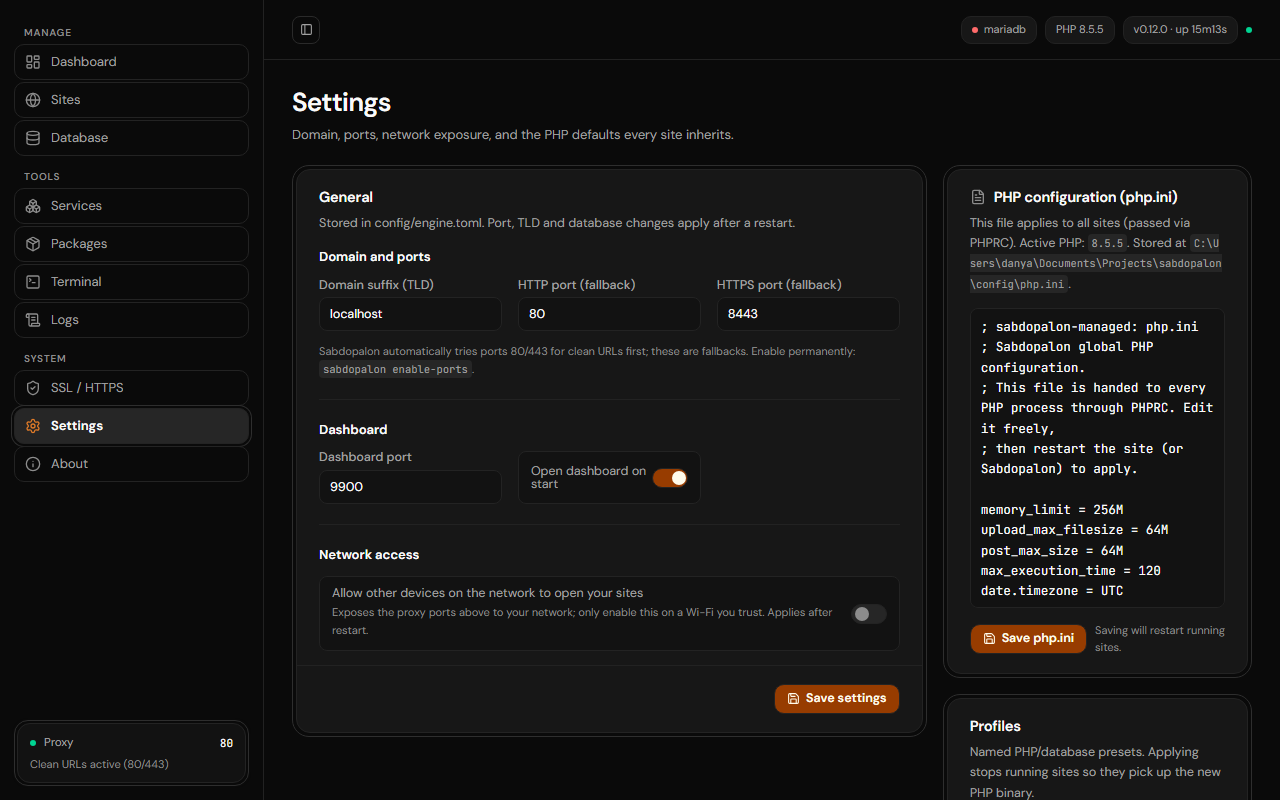
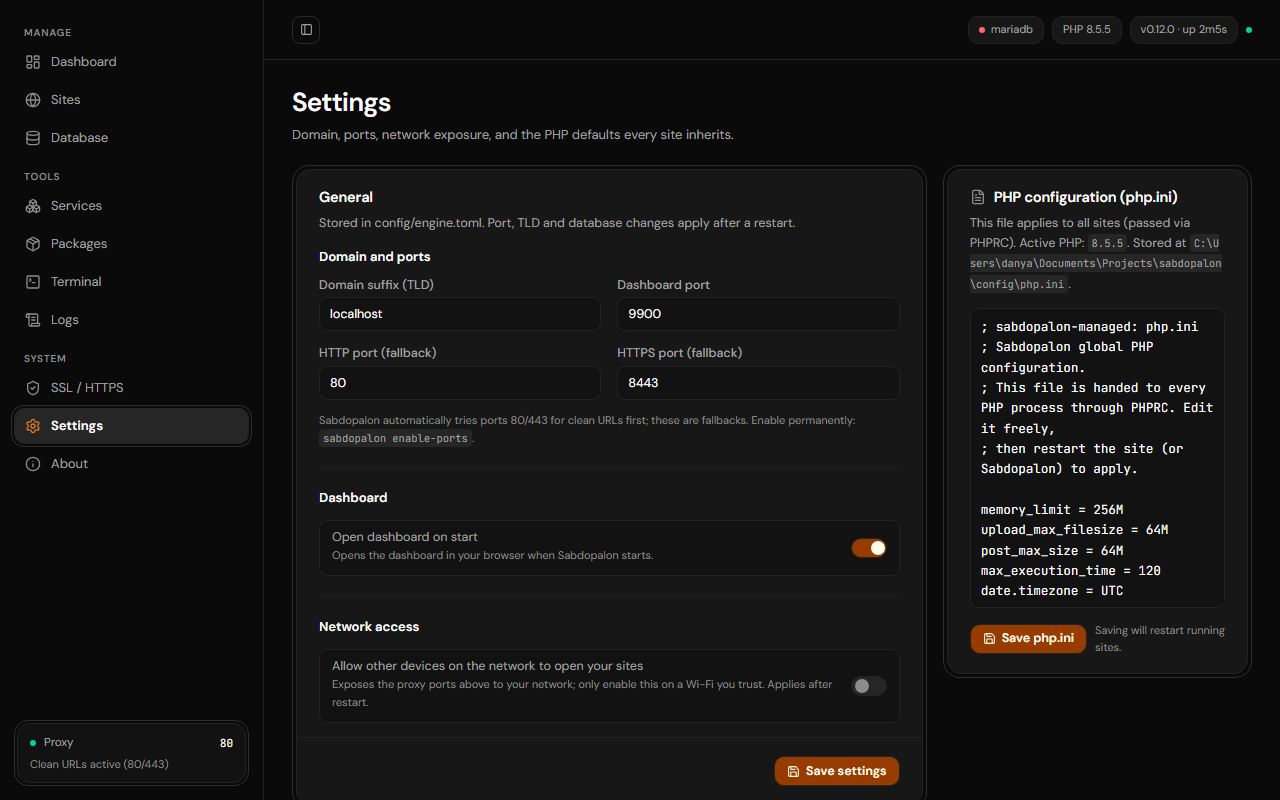
ui(settings): a real bento, and switch rows of the same size
The Settings page was a two-column arrangement with the Profiles table
squeezed into the side column. It is now a bento: General takes two
thirds with PHP configuration beside it, and Profiles runs full width
below, where its table has room to breathe.

The ports became the design's 2x2 grid (TLD and dashboard port on the
first row, the two fallback ports on the second), and "Open dashboard
on start" is now a full-width row with a label, a note and the switch
on the right - the same shape and size as the network-access row
below it, so the two switches read as one kind of control.

Inactive sidebar items lose their border. The design draws one, but a
border around every item makes the list look like a table of buttons;
only the active item needs to be marked, and it keeps its ring.

diff --git a/internal/dashboard/ui/src/pages/settings.tsx b/internal/dashboard/ui/src/pages/settings.tsx
@@ -102,10 +102,19 @@ export default function SettingsPage() {
         <CardContent className="flex flex-col gap-5">
           <section className="flex flex-col gap-3 border-b border-border-soft pb-5 last:border-0 last:pb-0">
             <h3 className="text-[13px] font-semibold text-text-primary">Domain and ports</h3>
-            <div className="grid grid-cols-1 gap-4 @xl/main:grid-cols-3">
+            <div className="grid grid-cols-1 gap-4 @xl/main:grid-cols-2">
               <div className="flex flex-col gap-1.5">
                 <Label htmlFor="tld">Domain suffix (TLD)</Label>
                 <Input id="tld" value={cfg.tld ?? ""} onChange={(e) => set("tld", e.target.value)} />
+              </div>
+              <div className="flex flex-col gap-1.5">
+                <Label htmlFor="dashport">Dashboard port</Label>
+                <Input
+                  id="dashport"
+                  type="number"
+                  value={cfg.dashboard_port ?? ""}
+                  onChange={(e) => set("dashboard_port", Number(e.target.value))}
+                />
               </div>
               <div className="flex flex-col gap-1.5">
                 <Label htmlFor="http">HTTP port (fallback)</Label>
@@ -134,26 +143,20 @@ export default function SettingsPage() {
 
           <section className="flex flex-col gap-3 border-b border-border-soft pb-5 last:border-0 last:pb-0">
             <h3 className="text-[13px] font-semibold text-text-primary">Dashboard</h3>
-            <div className="grid grid-cols-1 gap-4 @xl/main:grid-cols-3">
-              <div className="flex flex-col gap-1.5">
-                <Label htmlFor="dashport">Dashboard port</Label>
-                <Input
-                  id="dashport"
-                  type="number"
-                  value={cfg.dashboard_port ?? ""}
-                  onChange={(e) => set("dashboard_port", Number(e.target.value))}
-                />
-              </div>
-              <div className="flex flex-row items-center justify-between rounded-md border border-ring-inner bg-surface-inset px-3 py-2.5">
+            <div className="flex flex-row items-center justify-between gap-4 rounded-md border border-ring-inner bg-surface-inset px-3 py-2.5">
+              <div className="flex flex-col gap-1">
                 <Label htmlFor="autoopen" className="font-normal">
                   Open dashboard on start
                 </Label>
-                <Switch
-                  id="autoopen"
-                  checked={!!cfg.auto_open}
-                  onCheckedChange={(v) => set("auto_open", v)}
-                />
+                <p className="text-[11px] leading-relaxed text-text-muted">
+                  Opens the dashboard in your browser when Sabdopalon starts.
+                </p>
               </div>
+              <Switch
+                id="autoopen"
+                checked={!!cfg.auto_open}
+                onCheckedChange={(v) => set("auto_open", v)}
+              />
             </div>
           </section>
 
@@ -186,7 +189,6 @@ export default function SettingsPage() {
         </CardFooter>
       </Card>
 
-        <div className="flex min-w-0 flex-col gap-4">
       <Card className="min-w-0">
         <CardHeader>
           <CardTitle className="flex items-center gap-2">
@@ -217,7 +219,8 @@ export default function SettingsPage() {
         </CardHeader>
       </Card>
 
-      <Card>
+
+      <Card className="min-w-0 @4xl/main:col-span-3">
         <CardHeader>
           <CardTitle>Profiles</CardTitle>
           <CardDescription>
@@ -227,43 +230,42 @@ export default function SettingsPage() {
         </CardHeader>
         <CardContent>
           <div className="overflow-hidden rounded-xl border border-ring-inner">
-          <Table>
-            <TableHeader>
-              <TableRow className="hover:bg-transparent">
-                <TableHead>Name</TableHead>
-                <TableHead>PHP</TableHead>
-                <TableHead>DB</TableHead>
-                <TableHead className="w-24 text-right">
-                  <span className="sr-only">Actions</span>
-                </TableHead>
-              </TableRow>
-            </TableHeader>
-            <TableBody>
-              {profiles.map((p) => (
-                <TableRow key={p.Name}>
-                  <TableCell className="font-medium">
-                    {p.Name}
-                    {p.Description && (
-                      <span className="ml-2 text-[10.5px] text-text-muted">{p.Description}</span>
-                    )}
-                  </TableCell>
-                  <TableCell>{p.PHP || "(default)"}</TableCell>
-                  <TableCell>{p.DBEngine || "(default)"}</TableCell>
-                  <TableCell className="text-right">
-                    {p.Name !== "default" && (
-                      <Button size="sm" variant="outline" onClick={() => applyProfile(p.Name)}>
-                        Apply
-                      </Button>
-                    )}
-                  </TableCell>
+            <Table>
+              <TableHeader>
+                <TableRow className="hover:bg-transparent">
+                  <TableHead>Name</TableHead>
+                  <TableHead>PHP</TableHead>
+                  <TableHead>DB</TableHead>
+                  <TableHead className="w-24 text-right">
+                    <span className="sr-only">Actions</span>
+                  </TableHead>
                 </TableRow>
-              ))}
-            </TableBody>
-          </Table>
+              </TableHeader>
+              <TableBody>
+                {profiles.map((p) => (
+                  <TableRow key={p.Name}>
+                    <TableCell className="font-medium">
+                      {p.Name}
+                      {p.Description && (
+                        <span className="ml-2 text-[10.5px] text-text-muted">{p.Description}</span>
+                      )}
+                    </TableCell>
+                    <TableCell>{p.PHP || "(default)"}</TableCell>
+                    <TableCell>{p.DBEngine || "(default)"}</TableCell>
+                    <TableCell className="text-right">
+                      {p.Name !== "default" && (
+                        <Button size="sm" variant="outline" onClick={() => applyProfile(p.Name)}>
+                          Apply
+                        </Button>
+                      )}
+                    </TableCell>
+                  </TableRow>
+                ))}
+              </TableBody>
+            </Table>
           </div>
         </CardContent>
       </Card>
-        </div>
       </div>
     </div>
   )

diff --git a/internal/dashboard/ui/src/components/app-sidebar.tsx b/internal/dashboard/ui/src/components/app-sidebar.tsx
@@ -90,7 +90,7 @@ export default function AppSidebar() {
                           isActive={isActive}
                           render={<span />}
                           className={
-                            "h-9 gap-2.5 rounded-lg border border-ring-inner px-2.5 text-[13px] font-normal text-text-secondary [&_svg]:size-4 [&_svg]:text-text-muted " +
+                            "h-9 gap-2.5 rounded-lg border border-transparent px-2.5 text-[13px] font-normal text-text-secondary [&_svg]:size-4 [&_svg]:text-text-muted " +
                             ACTIVE_RING +
                             " data-active:border-ring-inner data-active:bg-surface-raised data-active:font-semibold data-active:text-text-primary data-active:[&_svg]:text-brand"
                           }
